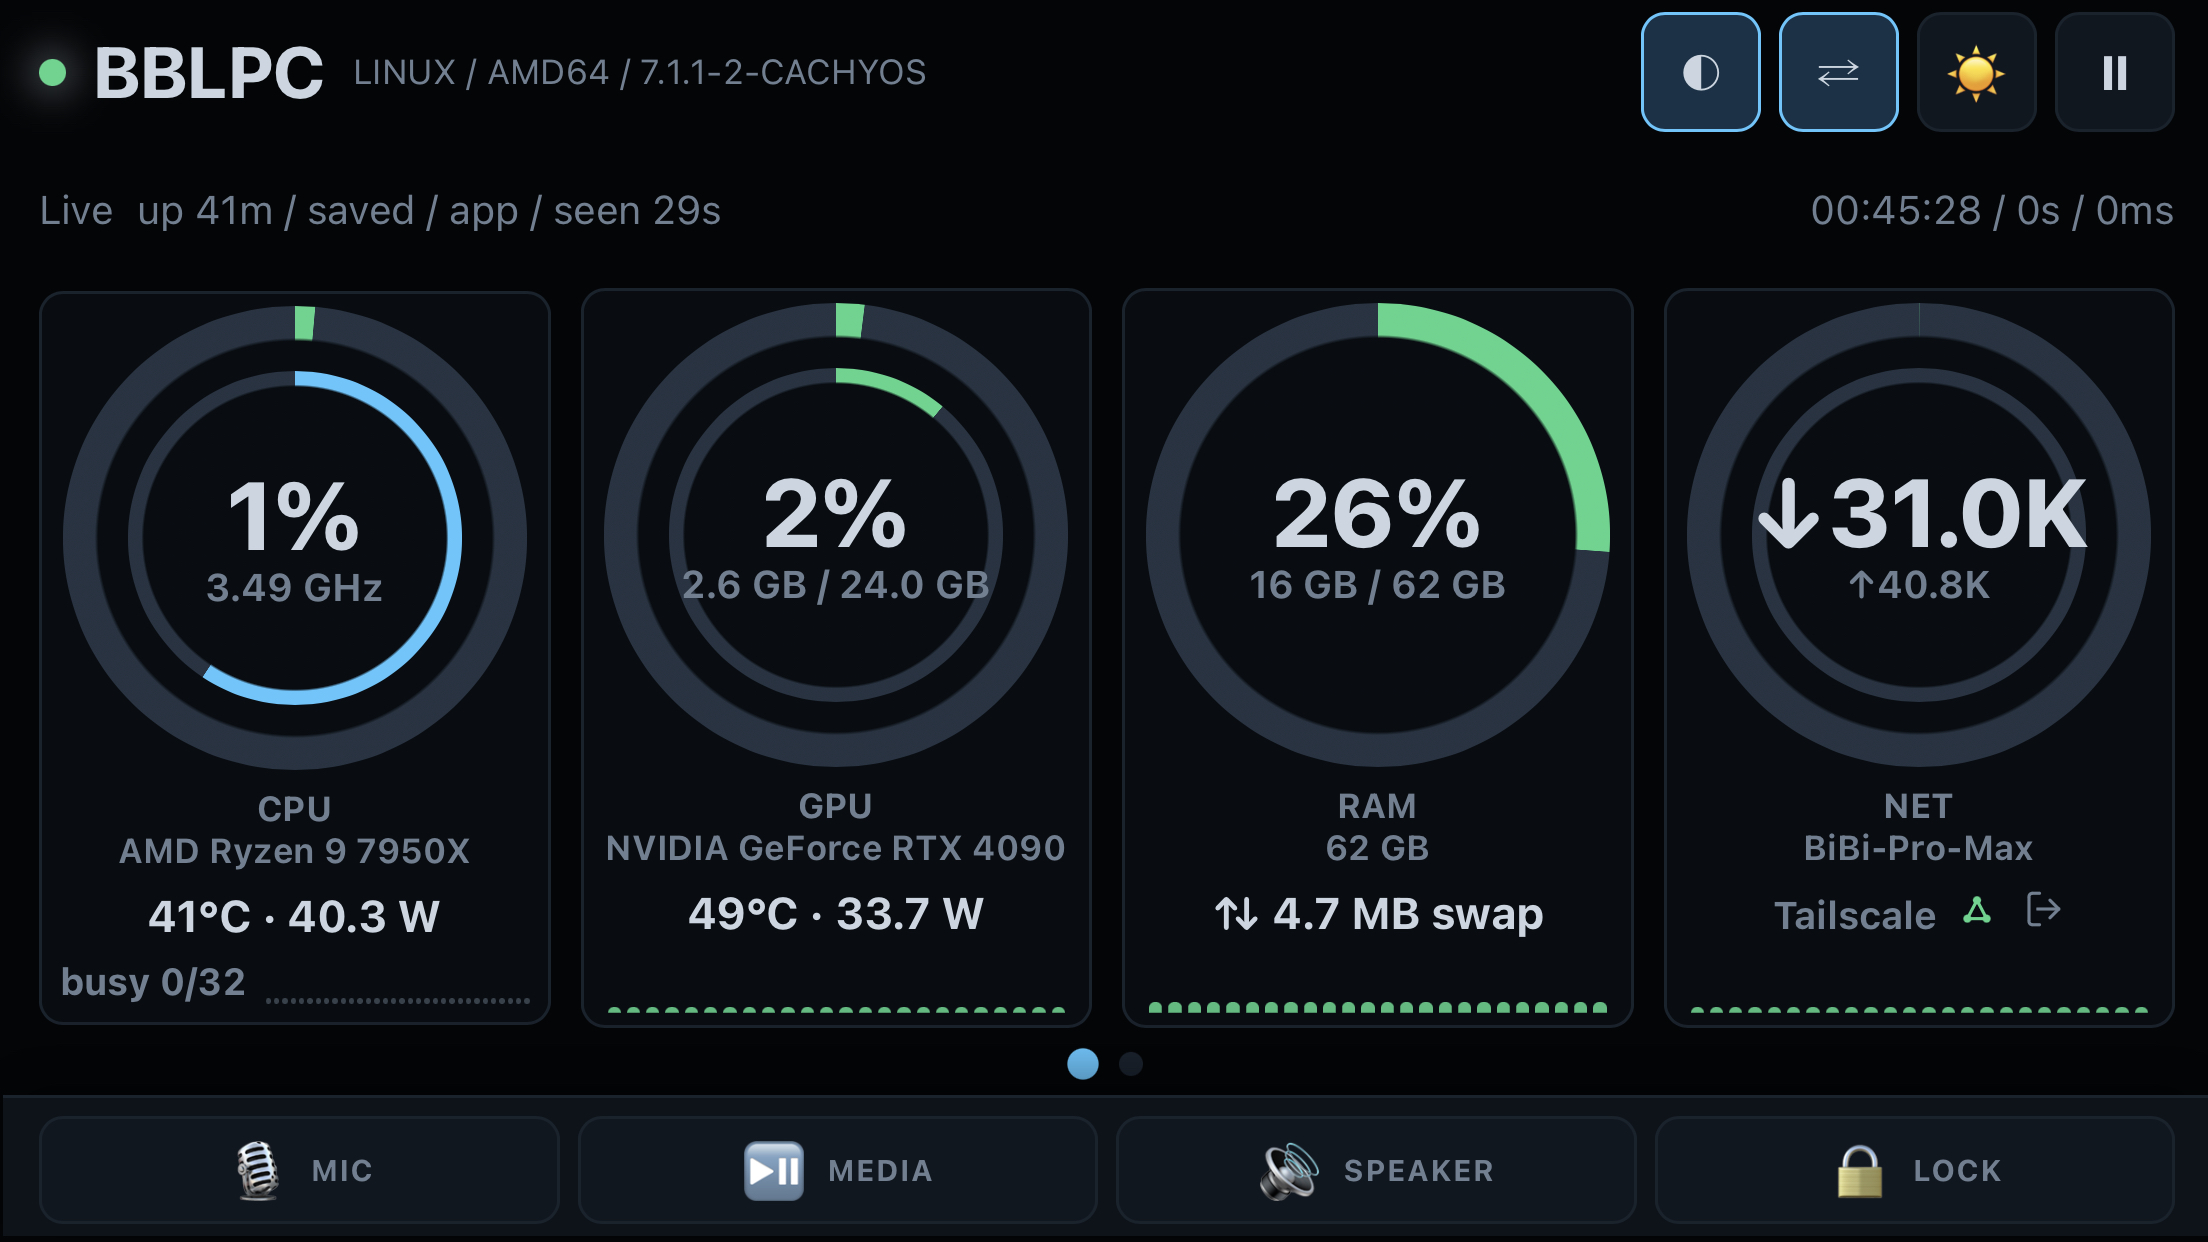
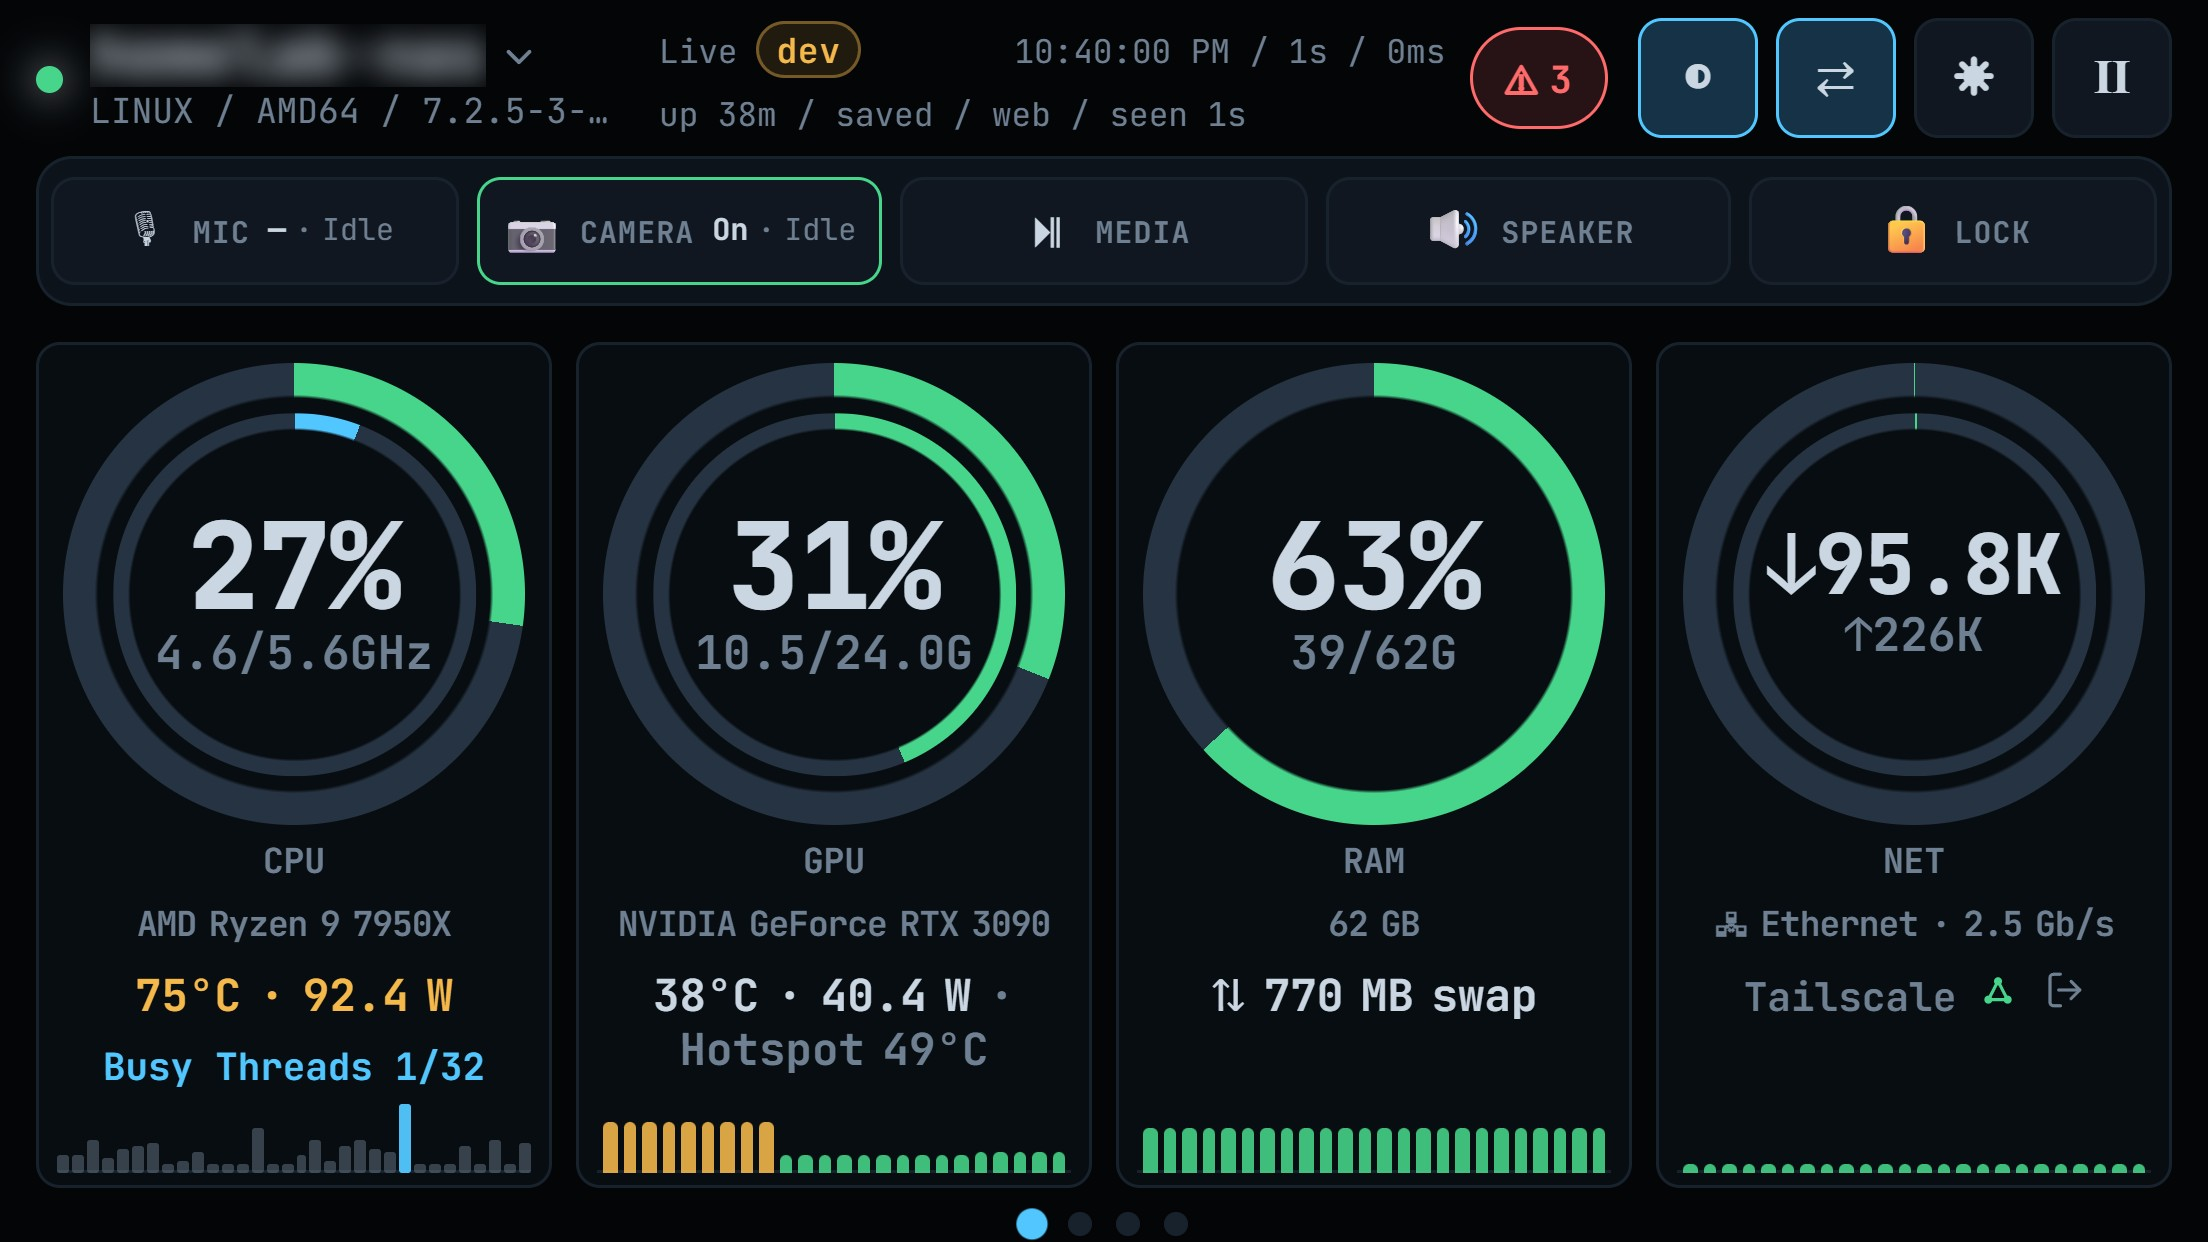
docs: refresh the dashboard screenshots and show host switching
New Linux and Windows hero screenshots of live v153 dashboards at the
same 2208x1242 iPhone 8 Plus landscape framing, plus two portrait shots
for "Watch several hosts": the host list and another machine in view.
Hostnames and the Wi-Fi name were replaced with placeholders in the page
before capture, then blurred.

diff --git a/README.md b/README.md
@@ -9,11 +9,11 @@ all of them.
 <p align="center">
   <img src="assets/screenshot-linux.JPEG" alt="Sysmon Agent dashboard monitoring a Linux host" width="760">
   <br>
-  <em>Linux host</em>
+  <em>Linux host (hostname blurred)</em>
   <br><br>
   <img src="assets/screenshot-windows.png" alt="Sysmon Agent dashboard monitoring a Windows host" width="760">
   <br>
-  <em>Windows host</em>
+  <em>Windows host (hostname and Wi-Fi name blurred)</em>
 </p>
 
 ---
@@ -121,6 +121,15 @@ host) and pick a machine; the device remembers the choice. While another host is
 its name and the control row are tinted and the line under the name reads `via <agent>`:
 the mic, camera, media, speaker and lock buttons act on the host in view, and Lock's confirm
 prompt names it.
+
+<p align="center">
+  <img src="assets/host-picker.png" alt="The host list open over the dashboard: three agents, the serving one marked 'this agent' and checked" width="300">
+  &nbsp;&nbsp;
+  <img src="assets/host-remote.png" alt="Another machine in view: its name and the control row tinted, and 'via' plus the serving agent under the name" width="300">
+  <br>
+  <em>Left: the host list. Right: another machine in view, relayed by the agent the app was
+  installed from. Hostnames blurred.</em>
+</p>
 
 ### How it works
 
